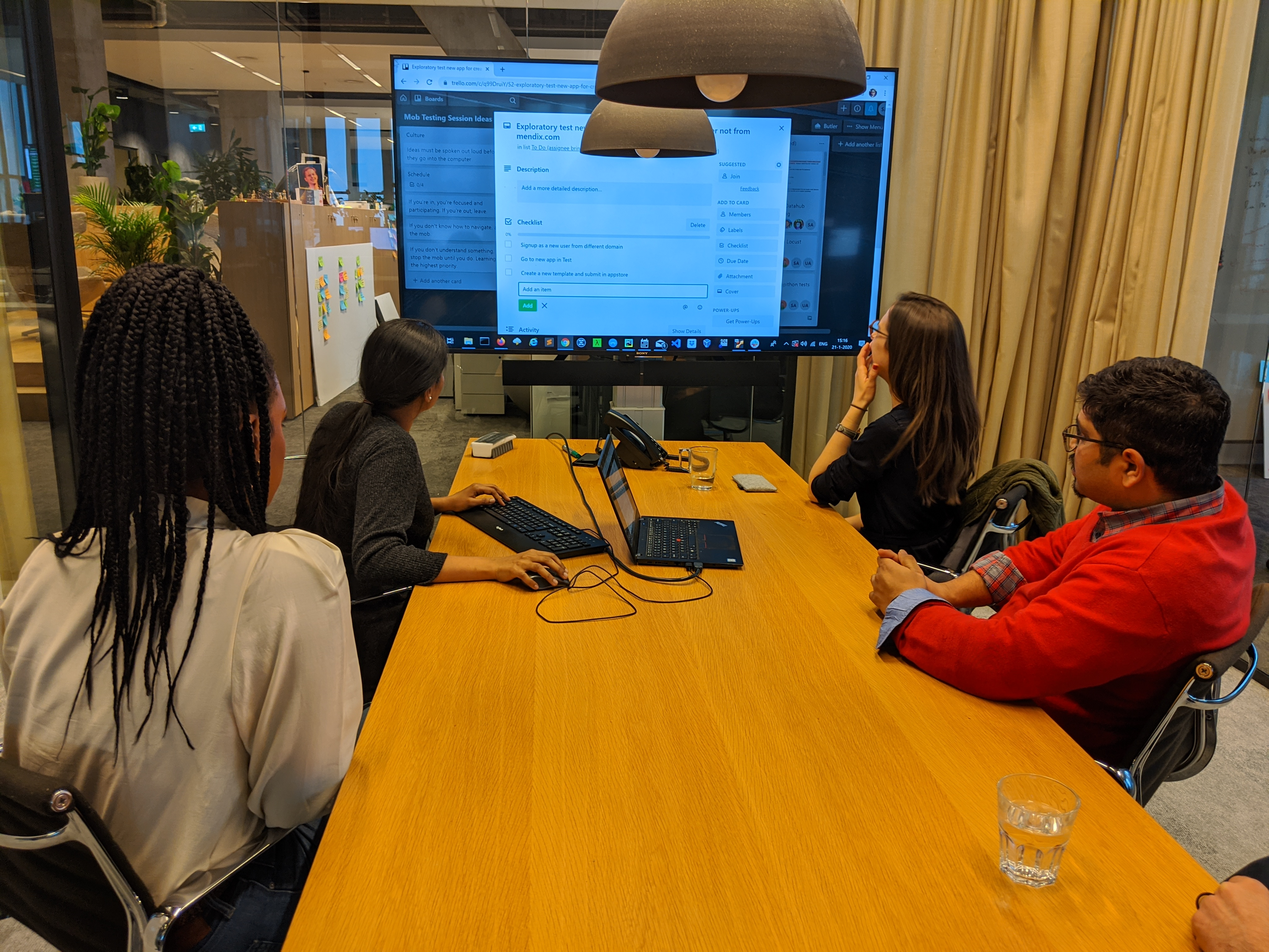
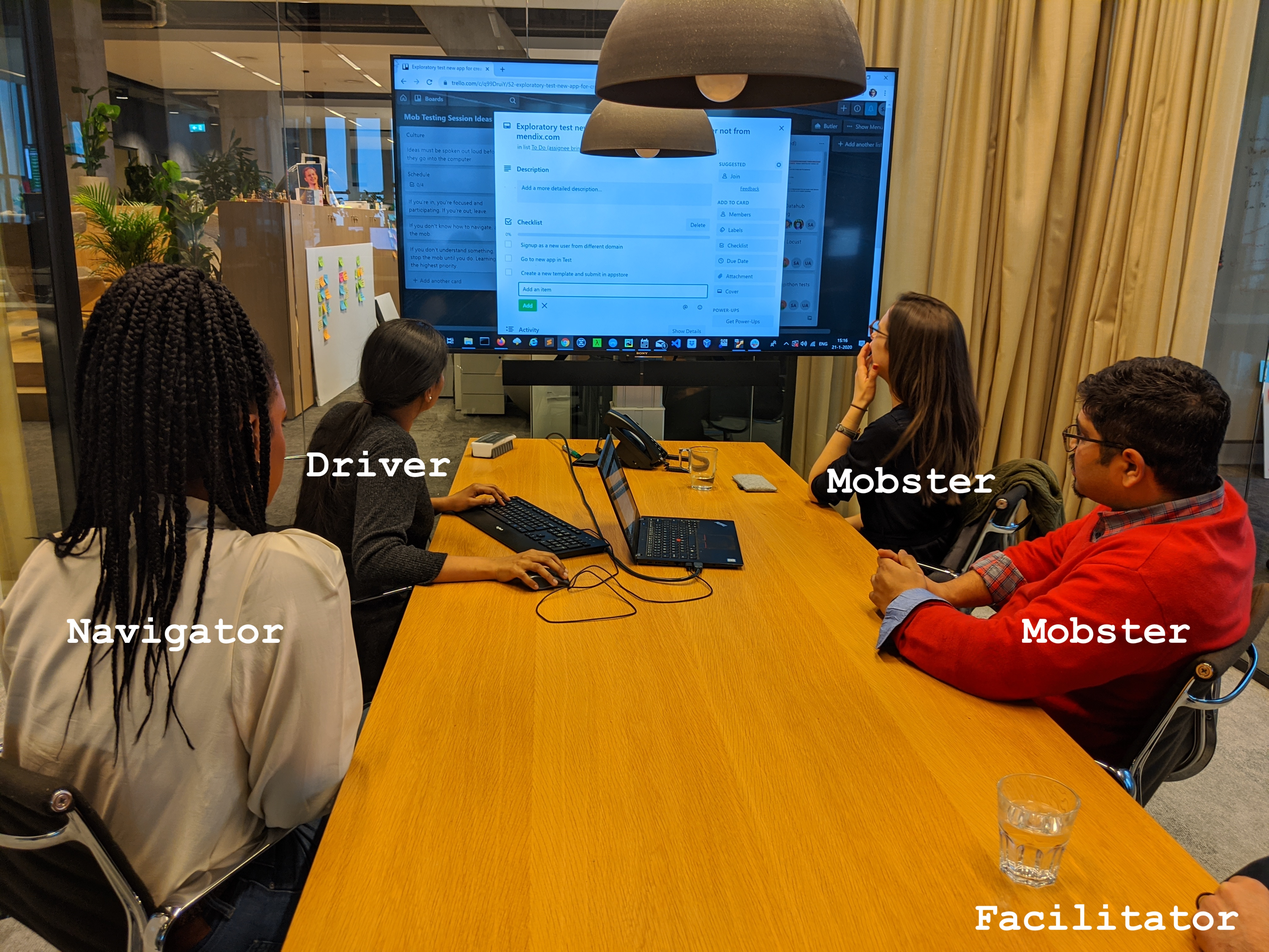
DEWT feedback updates.

diff --git a/mob-testing.md b/mob-testing.md
@@ -7,7 +7,9 @@
 #### 6 February 2020 European Testing Conference
 
 Notes:
-- Elizabeth and Joep
+- Elizabeth
+- experience report of how mobbing worked for us
+- pieces to takeaway and try
 
 ===
 
@@ -15,7 +17,6 @@ Notes:
 - how we got started
 - how we mob
 - results
-- lessons learned
 - habits we built (or are still)
 
 Notes: 
@@ -43,26 +44,7 @@ Notes:
 
 ===
 
-### historical context
-
-<div style="display:flex; justify-content:space-between; align-items:center">
-<div>
-mobbing at Mendix was:
-
-- 7 minute rounds of dictatorship
-- demonstration rather than exploration
-
-</div>
-<img src="images/old-office.jpg" width="50%"/>
-</div>
-
-Notes:
-- Joep
-- following a script during a meeting
-
-===
-
-### new context
+### our context
 
 <img src="images/de_rotterdam.jpg" style="float:right" width="30%"/>
 
@@ -82,6 +64,7 @@ Notes:
 	- more difficult to fill the gaps
 
 ===
+<!-- .slide: data-transition="slide-in none" -->
 
 ### initial goals
 
@@ -100,7 +83,7 @@ Notes:
 
 
 ===
-
+<!-- .slide: data-transition="none" -->
 ### initial goals
 
 - share knowledge about the products we support
@@ -110,6 +93,7 @@ Notes:
 Notes:
 - Elizabeth
 - Joep's role/personality enabled this
+- prepare for Joep winning the lottery
 - arguments on slide were for Elizabeth's teammates
 - we did not mob at my previous job
 
@@ -139,15 +123,15 @@ Notes:
 
 ### participants & setup
 
-<div style="display:flex; justify-content:center">
-	<img src="images/back_02_20200121_151638.jpg" width="70%"/>
-</div>
+<img src="images/back_02_20200121_151638.jpg" width="70%"/>
 
 Notes:
 - Elizabeth
 - rotate mouse and keyboard
-- four-minute rotations
+- four-minute rotations: reinforces roles & collaboration
+- if not working, make duration shorter
 - describing roles: facilitator, driver, navigator, mobster
+- navigator decides what's next, ask for input
 - still mess up driver/navigator
 - enabling constraints
 - this stuff is hard, stick with it
@@ -157,15 +141,18 @@ Notes:
 
 ### participants & setup
 
-<div style="display:flex; justify-content:center">
-	<img src="images/front_01_20200121_151657.jpg" width="70%"/>
-</div>
+<img src="images/front_01_20200121_151657.jpg" width="70%"/>
+
 
 Notes:
 - Elizabeth
 - bullying for people who normally show up
-- describe personalities/skill levels
-- Joep, facilitator in our mob
+- Joep/EZ: more exploratory testing
+- Ursula: customer support
+- Kavitha: engineer
+- Sanju: full of ideas, bias to action
+- talkative, collaboration with lots of energy in the room
+- all working on the same thing
 
 ===
 
@@ -174,8 +161,7 @@ Notes:
 
 Notes:
 - Elizabeth
-- anyone can add, adder brings machine
-- mob chooses together which to pick up
+- mob chooses and refines together
 - diversity of stuff we pick up: testing, refactoring, architecture diagram, etc.
 - Selenium, Locust, Pytest, Postman, Python
 
@@ -207,6 +193,7 @@ Notes:
 ### mobbing happened!
 
 - simultaneous ooh-ing <!-- .element: class="fragment" -->
+- expressing intent led to a better action <!-- .element: class="fragment" -->
 - when it's not chaos but a mob <!-- .element: class="fragment" -->
 - "I'll start using this tomorrow!" <!-- .element: class="fragment" -->
 - skeptical but yolo! <!-- .element: class="fragment" -->
@@ -220,10 +207,16 @@ Notes:
 
 ===
 
-## lessons learned
+### learning happened!
+
+- keyboard shortcuts & operating systems
+- product & domain knowledge
+- technical skills
 
 Notes:
 - Joep
+- technical: testing and programming
+- come up with examples
 
 ===
 
@@ -269,16 +262,16 @@ Notes:
 ### habits we built
 
 
-<div style="display:flex; justify-content:space-between; align-items:center">
+<div style="display:flex; justify-content:space-between;">
 <div>
 
-- strong-style communication outside the mob
+- driver-navigator outside the mob
 - reach out to each other for help
 - knowing how to troubleshoot your product
 </div>
 
-<img style="float:right; padding-left:10%" src="images/cheerleaders.jpg" width="40%" />
-<div>
+<img style="float:right; padding-left:5%" src="images/cheerleaders.jpg" width="35%" />
+</div>
 
 Notes:
 - Elizabeth
@@ -318,16 +311,7 @@ Notes:
 - this stuff is hard, stick with it
 - have a facilitator just focused on the process
 - learning _is_ the productivity, part of the job
-
-===
-
-### one piece of advice
-
-don't try this at ~~home~~ work
-
-Notes:
-- Joep
-- warning: pairing with people who haven't learned this becomes highly frustrating
+- try it, see how it goes
 
 ===
 
